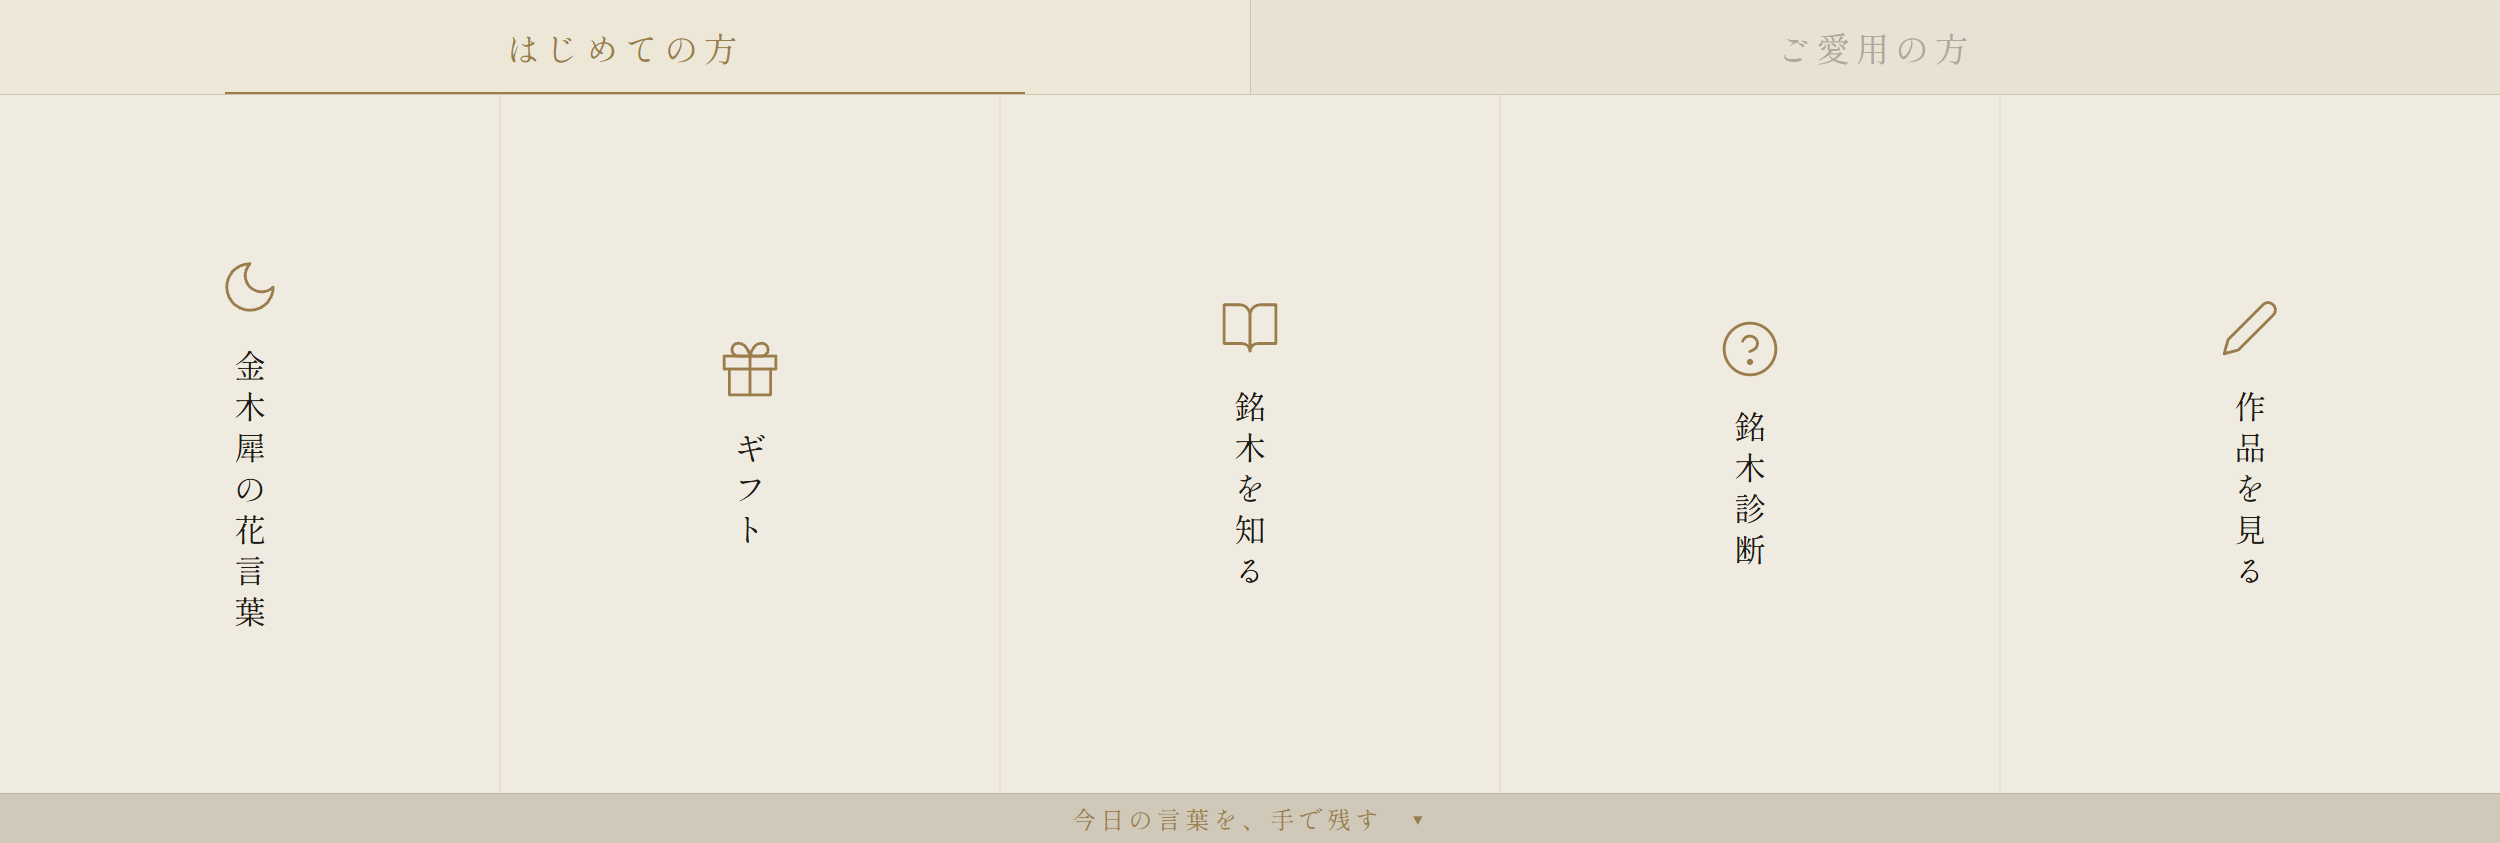
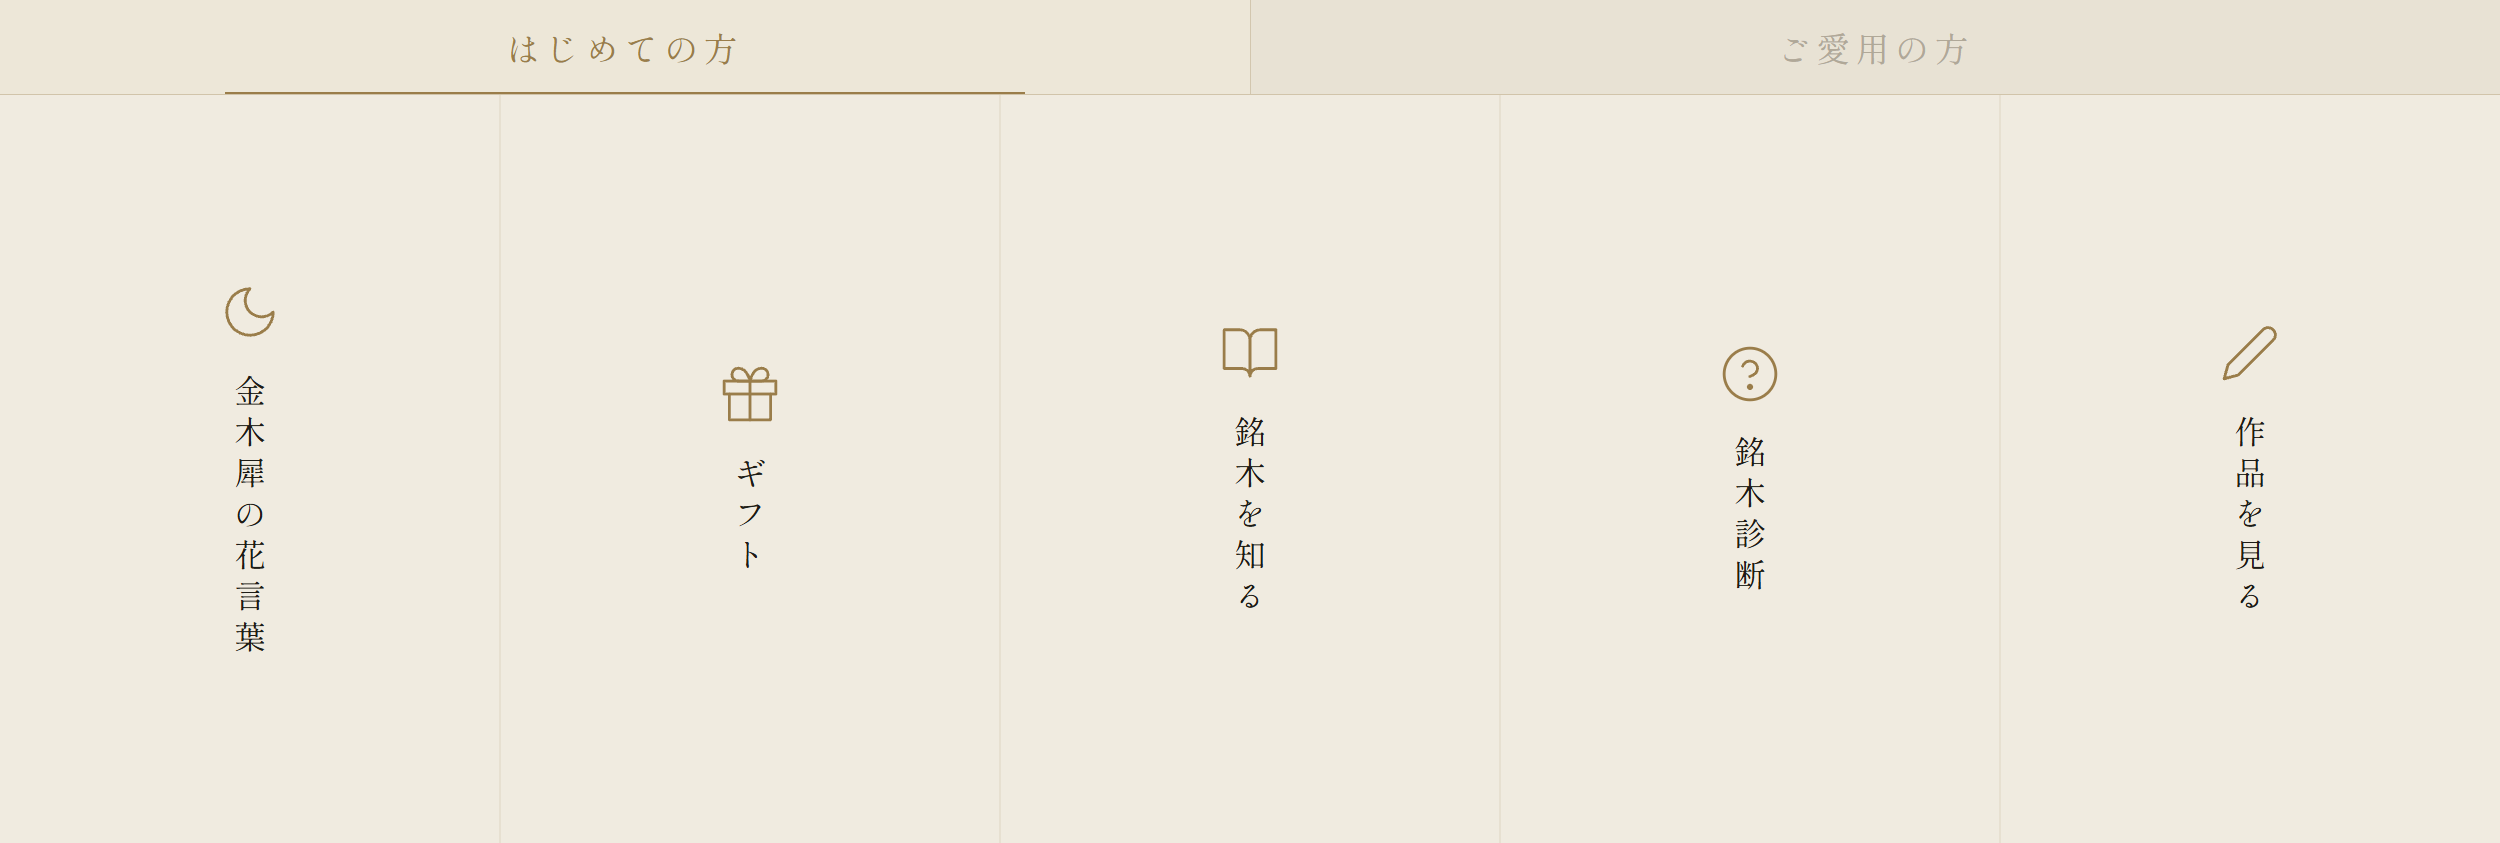
fix: ボトムバー削除・コンテンツ領域を748pxに拡張
- designs: ボトムバーを削除し SVG height を698→748px に変更
- 各列を748px内で縦中央揃え（text_cy=423固定、icon_cy はラベル長ごとに算出）
- richmenu.ts: CONT_H=748に更新、固定バーのarea定義を削除

diff --git a/designs/richmenu-tab-a.html b/designs/richmenu-tab-a.html
@@ -27,12 +27,6 @@ body {
   height: 2px; background: #9a7d4a;
 }
 .tab-sep { width: 1px; background: rgba(154,125,74,0.28); align-self: stretch; }
-.bottom {
-  height: 50px; flex-shrink: 0; background: #d0c8b8;
-  border-top: 1px solid rgba(154,125,74,0.28);
-  display: flex; align-items: center; justify-content: center;
-}
-.bottom-text { font-size: 24px; color: #9a7d4a; letter-spacing: 0.18em; }
 </style>
 </head>
 <body>
@@ -44,84 +38,80 @@ body {
   </div>
 
   <!--
-    各列を個別に縦中央揃え (text-anchor="middle", text y=398 固定):
-      text_h = N × 32 + (N-1) × 9
-      total  = 62 + 36 + text_h
-      icon_cy = (698 - total)/2 + 31
-      text_cy = icon_cy + 31 + 36 + text_h/2  = 常に 398
+    content_h = 843 - 95 = 748px
+    text_h = N×32 + (N-1)×9
+    total  = 62(icon) + 36(gap) + text_h
+    icon_cy = (748 - total)/2 + 31
+    text_cy = 423 (全列固定)
 
-    金木犀の花言葉 (7ch): text_h=278, total=376, icon_cy=192
-    ギフト         (3ch): text_h=114, total=212, icon_cy=274
-    銘木を知る     (5ch): text_h=196, total=294, icon_cy=233
-    銘木診断       (4ch): text_h=155, total=253, icon_cy=254
-    作品を見る     (5ch): text_h=196, total=294, icon_cy=233
+    金木犀の花言葉 (7ch): text_h=278, total=376, icon_cy=217
+    ギフト         (3ch): text_h=114, total=212, icon_cy=299
+    銘木を知る     (5ch): text_h=196, total=294, icon_cy=258
+    銘木診断       (4ch): text_h=155, total=253, icon_cy=279
+    作品を見る     (5ch): text_h=196, total=294, icon_cy=258
   -->
-  <svg width="2500" height="698" xmlns="http://www.w3.org/2000/svg" style="flex-shrink:0;display:block;">
-    <rect width="2500" height="698" fill="#f0ebe0"/>
-    <line x1="500"  y1="0" x2="500"  y2="698" stroke="rgba(154,125,74,0.2)" stroke-width="1"/>
-    <line x1="1000" y1="0" x2="1000" y2="698" stroke="rgba(154,125,74,0.2)" stroke-width="1"/>
-    <line x1="1500" y1="0" x2="1500" y2="698" stroke="rgba(154,125,74,0.2)" stroke-width="1"/>
-    <line x1="2000" y1="0" x2="2000" y2="698" stroke="rgba(154,125,74,0.2)" stroke-width="1"/>
+  <svg width="2500" height="748" xmlns="http://www.w3.org/2000/svg" style="flex-shrink:0;display:block;">
+    <rect width="2500" height="748" fill="#f0ebe0"/>
+    <line x1="500"  y1="0" x2="500"  y2="748" stroke="rgba(154,125,74,0.2)" stroke-width="1"/>
+    <line x1="1000" y1="0" x2="1000" y2="748" stroke="rgba(154,125,74,0.2)" stroke-width="1"/>
+    <line x1="1500" y1="0" x2="1500" y2="748" stroke="rgba(154,125,74,0.2)" stroke-width="1"/>
+    <line x1="2000" y1="0" x2="2000" y2="748" stroke="rgba(154,125,74,0.2)" stroke-width="1"/>
 
-    <!-- Col 1: 金木犀の花言葉 (cx=250, icon_cy=192) -->
-    <g transform="translate(250,192)">
+    <!-- Col 1: 金木犀の花言葉 (cx=250, icon_cy=217) -->
+    <g transform="translate(250,217)">
       <svg x="-31" y="-31" width="62" height="62" viewBox="0 0 24 24" fill="none" stroke="#9a7d4a" stroke-width="1.1" stroke-linecap="round" stroke-linejoin="round">
         <path d="M12 3a6 6 0 009 9 9 9 0 11-9-9z"/>
       </svg>
     </g>
-    <text x="250" y="398" writing-mode="vertical-rl" text-anchor="middle"
+    <text x="250" y="423" writing-mode="vertical-rl" text-anchor="middle"
           font-family="'Shippori Mincho B1','Hiragino Mincho ProN','Yu Mincho',serif"
           font-size="32" letter-spacing="9" fill="#1e1c16">金木犀の花言葉</text>
 
-    <!-- Col 2: ギフト (cx=750, icon_cy=274) -->
-    <g transform="translate(750,274)">
+    <!-- Col 2: ギフト (cx=750, icon_cy=299) -->
+    <g transform="translate(750,299)">
       <svg x="-31" y="-31" width="62" height="62" viewBox="0 0 24 24" fill="none" stroke="#9a7d4a" stroke-width="1.1" stroke-linecap="round" stroke-linejoin="round">
         <path d="M20 12v10H4V12"/><path d="M22 7H2v5h20V7z"/><path d="M12 22V7"/>
         <path d="M12 7H7.5a2.5 2.5 0 010-5C11 2 12 7 12 7z"/>
         <path d="M12 7h4.5a2.5 2.5 0 000-5C13 2 12 7 12 7z"/>
       </svg>
     </g>
-    <text x="750" y="398" writing-mode="vertical-rl" text-anchor="middle"
+    <text x="750" y="423" writing-mode="vertical-rl" text-anchor="middle"
           font-family="'Shippori Mincho B1','Hiragino Mincho ProN','Yu Mincho',serif"
           font-size="32" letter-spacing="9" fill="#1e1c16">ギフト</text>
 
-    <!-- Col 3: 銘木を知る (cx=1250, icon_cy=233) -->
-    <g transform="translate(1250,233)">
+    <!-- Col 3: 銘木を知る (cx=1250, icon_cy=258) -->
+    <g transform="translate(1250,258)">
       <svg x="-31" y="-31" width="62" height="62" viewBox="0 0 24 24" fill="none" stroke="#9a7d4a" stroke-width="1.1" stroke-linecap="round" stroke-linejoin="round">
         <path d="M2 3h6a4 4 0 014 4v14a3 3 0 00-3-3H2z"/>
         <path d="M22 3h-6a4 4 0 00-4 4v14a3 3 0 013-3h7z"/>
       </svg>
     </g>
-    <text x="1250" y="398" writing-mode="vertical-rl" text-anchor="middle"
+    <text x="1250" y="423" writing-mode="vertical-rl" text-anchor="middle"
           font-family="'Shippori Mincho B1','Hiragino Mincho ProN','Yu Mincho',serif"
           font-size="32" letter-spacing="9" fill="#1e1c16">銘木を知る</text>
 
-    <!-- Col 4: 銘木診断 (cx=1750, icon_cy=254) -->
-    <g transform="translate(1750,254)">
+    <!-- Col 4: 銘木診断 (cx=1750, icon_cy=279) -->
+    <g transform="translate(1750,279)">
       <svg x="-31" y="-31" width="62" height="62" viewBox="0 0 24 24" fill="none" stroke="#9a7d4a" stroke-width="1.1" stroke-linecap="round" stroke-linejoin="round">
         <path d="M9.09 9a3 3 0 015.83 1c0 2-3 3-3 3"/>
         <circle cx="12" cy="17" r="1.2" fill="#9a7d4a" stroke="none"/>
         <circle cx="12" cy="12" r="10"/>
       </svg>
     </g>
-    <text x="1750" y="398" writing-mode="vertical-rl" text-anchor="middle"
+    <text x="1750" y="423" writing-mode="vertical-rl" text-anchor="middle"
           font-family="'Shippori Mincho B1','Hiragino Mincho ProN','Yu Mincho',serif"
           font-size="32" letter-spacing="9" fill="#1e1c16">銘木診断</text>
 
-    <!-- Col 5: 作品を見る (cx=2250, icon_cy=233) -->
-    <g transform="translate(2250,233)">
+    <!-- Col 5: 作品を見る (cx=2250, icon_cy=258) -->
+    <g transform="translate(2250,258)">
       <svg x="-31" y="-31" width="62" height="62" viewBox="0 0 24 24" fill="none" stroke="#9a7d4a" stroke-width="1.1" stroke-linecap="round" stroke-linejoin="round">
         <path d="M17 3a2.828 2.828 0 114 4L7.5 20.5 2 22l1.5-5.5L17 3z"/>
       </svg>
     </g>
-    <text x="2250" y="398" writing-mode="vertical-rl" text-anchor="middle"
+    <text x="2250" y="423" writing-mode="vertical-rl" text-anchor="middle"
           font-family="'Shippori Mincho B1','Hiragino Mincho ProN','Yu Mincho',serif"
           font-size="32" letter-spacing="9" fill="#1e1c16">作品を見る</text>
   </svg>
-
-  <div class="bottom">
-    <span class="bottom-text">今日の言葉を、手で残す　▾</span>
-  </div>
 </div>
 </body>
 </html>

diff --git a/designs/richmenu-tab-b.html b/designs/richmenu-tab-b.html
@@ -29,14 +29,6 @@ body {
   height: 2px; background: #9a7d4a;
 }
 .tab-sep { width: 1px; background: rgba(154,125,74,0.28); align-self: stretch; }
-
-/* ── 固定バー (793〜843px) ── */
-.bottom {
-  height: 50px; flex-shrink: 0; background: #2e1c10;
-  border-top: 1px solid rgba(154,125,74,0.28);
-  display: flex; align-items: center; justify-content: center;
-}
-.bottom-text { font-size: 24px; color: #e0cca0; letter-spacing: 0.18em; }
 </style>
 </head>
 <body>
@@ -49,18 +41,24 @@ body {
     <div class="tab active">ご愛用の方</div>
   </div>
 
-  <!-- コンテンツ 3列 (y: 95-793): SVGで確実に中央配置
-       col widths: 833, 834, 833  → cx: 416, 1250, 2083
-       gap=36, font-size=32, letter-spacing=9, text_cy=398
-       お手入れ (4ch): label_h=155, total=253, icon_cy=254
-       注文確認 (4ch): same
-       新作     (2ch): label_h=73,  total=171, icon_cy=294  -->
-  <svg width="2500" height="698" xmlns="http://www.w3.org/2000/svg" style="flex-shrink:0;">
+  <!--
+    content_h = 843 - 95 = 748px
+    col widths: 833, 834, 833  → cx: 417, 1250, 2083
+    text_h = N×32 + (N-1)×9
+    total  = 62(icon) + 36(gap) + text_h
+    icon_cy = (748 - total)/2 + 31
+    text_cy = 423 (全列固定)
+
+    お手入れ (4ch): text_h=155, total=253, icon_cy=279
+    注文確認 (4ch): same, icon_cy=279
+    新作     (2ch): text_h=73,  total=171, icon_cy=320
+  -->
+  <svg width="2500" height="748" xmlns="http://www.w3.org/2000/svg" style="flex-shrink:0;">
     <!-- 背景 -->
-    <rect width="2500" height="698" fill="#1a0e08"/>
+    <rect width="2500" height="748" fill="#1a0e08"/>
     <!-- 列区切り -->
-    <line x1="833"  y1="0" x2="833"  y2="698" stroke="rgba(154,125,74,0.22)" stroke-width="1"/>
-    <line x1="1667" y1="0" x2="1667" y2="698" stroke="rgba(154,125,74,0.22)" stroke-width="1"/>
+    <line x1="833"  y1="0" x2="833"  y2="748" stroke="rgba(154,125,74,0.22)" stroke-width="1"/>
+    <line x1="1667" y1="0" x2="1667" y2="748" stroke="rgba(154,125,74,0.22)" stroke-width="1"/>
     <!-- 各列上部の金ライン -->
     <defs>
       <linearGradient id="gold-line" x1="0" y1="0" x2="1" y2="0">
@@ -73,20 +71,20 @@ body {
     <line x1="983"  y1="0" x2="1517" y2="0" stroke="url(#gold-line)" stroke-width="1"/>
     <line x1="1817" y1="0" x2="2350" y2="0" stroke="url(#gold-line)" stroke-width="1"/>
 
-    <!-- ── Col 1: お手入れ (cx=417, icon_cy=254) ── -->
-    <g transform="translate(417,254)">
+    <!-- ── Col 1: お手入れ (cx=417, icon_cy=279) ── -->
+    <g transform="translate(417,279)">
       <svg x="-31" y="-31" width="62" height="62" viewBox="0 0 24 24"
            fill="none" stroke="#9a7d4a" stroke-width="1.1" stroke-linecap="round" stroke-linejoin="round">
         <path d="M12 22s8-4 8-10V5l-8-3-8 3v7c0 6 8 10 8 10z"/>
         <path d="M9 12l2 2 4-4"/>
       </svg>
     </g>
-    <text x="417" y="398" writing-mode="vertical-rl" text-anchor="middle"
+    <text x="417" y="423" writing-mode="vertical-rl" text-anchor="middle"
           font-family="'Shippori Mincho B1','Hiragino Mincho ProN','Yu Mincho',serif"
           font-size="32" letter-spacing="9" fill="#e0d4b8">お手入れ</text>
 
-    <!-- ── Col 2: 注文確認 (cx=1250, icon_cy=254) ── -->
-    <g transform="translate(1250,254)">
+    <!-- ── Col 2: 注文確認 (cx=1250, icon_cy=279) ── -->
+    <g transform="translate(1250,279)">
       <svg x="-31" y="-31" width="62" height="62" viewBox="0 0 24 24"
            fill="none" stroke="#9a7d4a" stroke-width="1.1" stroke-linecap="round" stroke-linejoin="round">
         <path d="M20 7H4a2 2 0 00-2 2v10a2 2 0 002 2h16a2 2 0 002-2V9a2 2 0 00-2-2z"/>
@@ -94,26 +92,21 @@ body {
         <path d="M9 13h6M9 17h4"/>
       </svg>
     </g>
-    <text x="1250" y="398" writing-mode="vertical-rl" text-anchor="middle"
+    <text x="1250" y="423" writing-mode="vertical-rl" text-anchor="middle"
           font-family="'Shippori Mincho B1','Hiragino Mincho ProN','Yu Mincho',serif"
           font-size="32" letter-spacing="9" fill="#e0d4b8">注文確認</text>
 
-    <!-- ── Col 3: 新作 (cx=2083, icon_cy=294) ── -->
-    <g transform="translate(2083,294)">
+    <!-- ── Col 3: 新作 (cx=2083, icon_cy=320) ── -->
+    <g transform="translate(2083,320)">
       <svg x="-31" y="-31" width="62" height="62" viewBox="0 0 24 24"
            fill="none" stroke="#9a7d4a" stroke-width="1.1" stroke-linecap="round" stroke-linejoin="round">
         <polygon points="12 2 15.09 8.26 22 9.27 17 14.14 18.18 21.02 12 17.77 5.82 21.02 7 14.14 2 9.27 8.91 8.26 12 2"/>
       </svg>
     </g>
-    <text x="2083" y="398" writing-mode="vertical-rl" text-anchor="middle"
+    <text x="2083" y="423" writing-mode="vertical-rl" text-anchor="middle"
           font-family="'Shippori Mincho B1','Hiragino Mincho ProN','Yu Mincho',serif"
           font-size="32" letter-spacing="9" fill="#e0d4b8">新作</text>
   </svg>
-
-  <!-- 固定バー (y: 793-843) -->
-  <div class="bottom">
-    <span class="bottom-text">今日の言葉を、手で残す　▾</span>
-  </div>
 
 </div>
 </body>

diff --git a/lib/line/richmenu.ts b/lib/line/richmenu.ts
@@ -75,9 +75,7 @@ export const KINMOKUSEI_MENU: RichMenuDef = {
 // ──────────────────────────────────────────────
 const TAB_H  = 95
 const CONT_Y = 95
-const CONT_H = 698
-const BOT_Y  = 793
-const BOT_H  = 50
+const CONT_H = 748
 
 export const ALIAS_A = 'kinmokusei-menu-a'
 export const ALIAS_B = 'kinmokusei-menu-b'
@@ -109,8 +107,6 @@ export function buildMenuTabA(liffUrl?: string): RichMenuDef {
       { bounds: { x: COL*3,  y: CONT_Y, width: COL, height: CONT_H }, action: liffUrl ? { type: 'uri', uri: liffUrl, label: '銘木診断' } : { type: 'message', text: '銘木診断', label: '銘木診断' } },
       // Col 5: 作品を見る
       { bounds: { x: COL*4,  y: CONT_Y, width: COL, height: CONT_H }, action: { type: 'uri', uri: BASE_SHOP, label: '作品を見る' } },
-      // 固定バー
-      { bounds: { x: 0, y: BOT_Y, width: 2500, height: BOT_H }, action: { type: 'postback', data: 'toggle_menu', displayText: 'メニュー' } },
     ],
   }
 }
@@ -135,8 +131,6 @@ export function buildMenuTabB(): RichMenuDef {
       { bounds: { x: C1,    y: CONT_Y, width: C2, height: CONT_H }, action: { type: 'message', text: '注文確認', label: '注文確認' } },
       // Col 3: 新作
       { bounds: { x: C1+C2, y: CONT_Y, width: C1, height: CONT_H }, action: { type: 'uri', uri: BASE_SHOP, label: '新作' } },
-      // 固定バー
-      { bounds: { x: 0, y: BOT_Y, width: 2500, height: BOT_H }, action: { type: 'postback', data: 'toggle_menu', displayText: 'メニュー' } },
     ],
   }
 }
